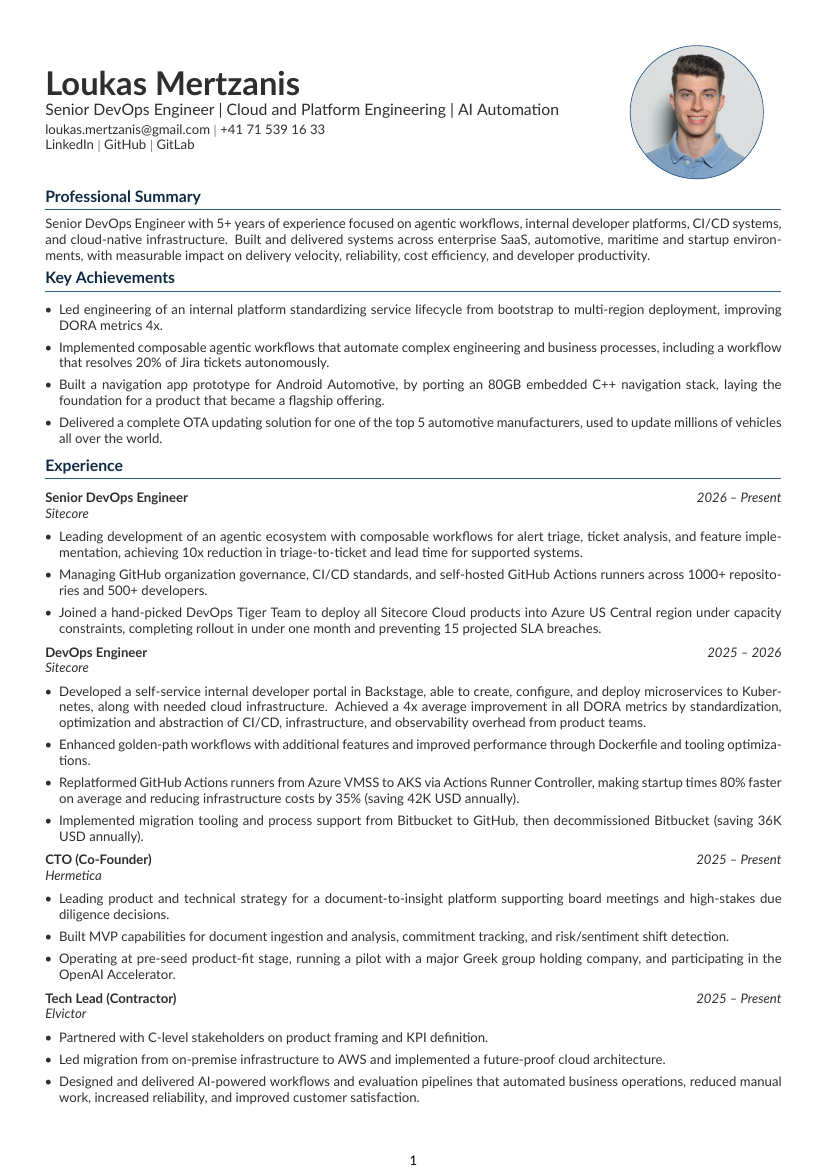
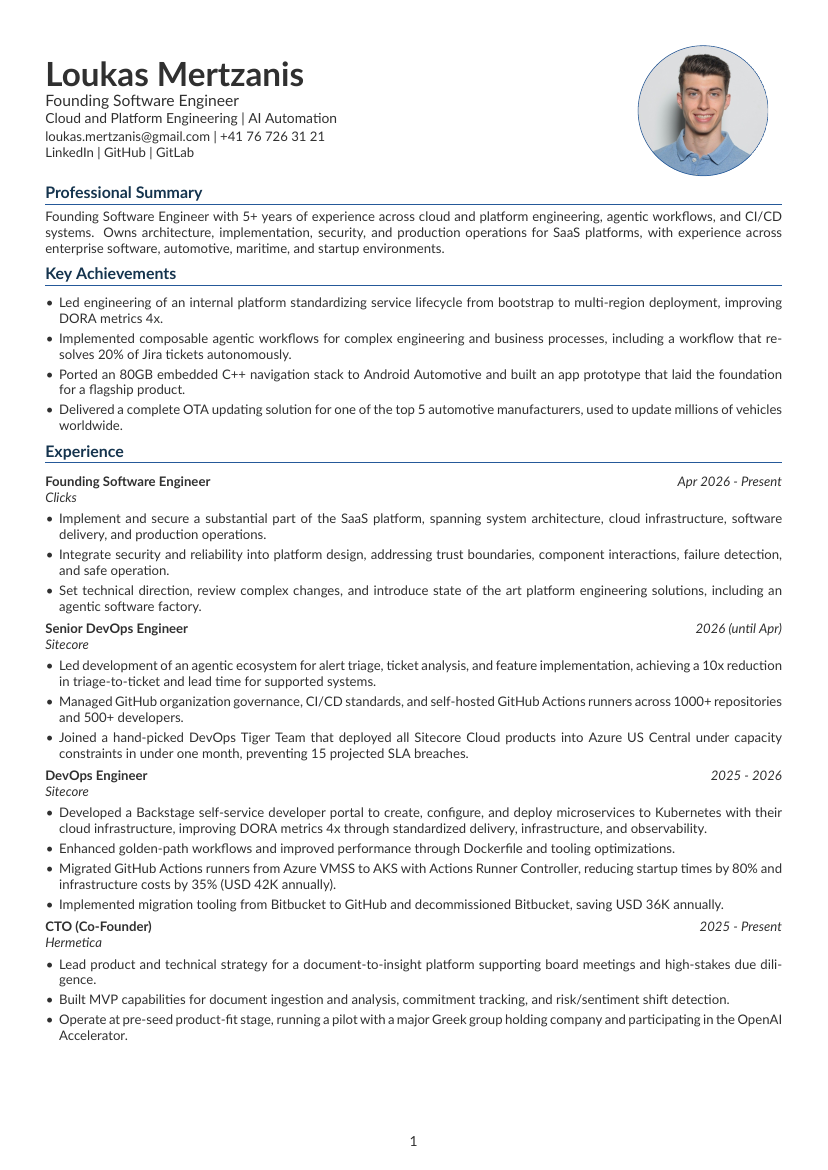
masters | docs: Save current application preparation state

diff --git a/archive/application/document-inventory.md b/archive/application/document-inventory.md
@@ -6,7 +6,7 @@ All canonical supporting-document paths below are inside the Git-ignored private
 | Portal task | Status | Canonical file | Notes |
 | --- | --- | --- | --- |
 | Identity Verification - Passport or National ID card | Present, content confirmation recommended | `../private/loukas-mertzanis-passport.jpeg` | The filename and source context indicate a passport image, but its visual contents were not opened during the scan. |
-| Curriculum Vitae | Present | `../private/loukas-mertzanis-cv.pdf` | Current English CV from June 2026. |
+| Curriculum Vitae | Present | `../private/loukas-mertzanis-cv.pdf` | Updated on 13 September 2026 with Clicks experience; editable LaTeX source is in `../private/cv/`. |
 | Identity Verifications - Photo | Present | `../private/loukas-mertzanis-headshot.jpg` | Recent 800 by 800 neutral-background headshot that is likely suitable as a passport-style photo. |
 | Additional Supporting Documents | No dedicated upload package yet | None | The screenshot marks this as needing attention rather than blocking the application. |
 | Education Proof | Present | `../private/loukas-mertzanis-bsc-degree.pdf` | Official one-page University of Crete degree certificate with a 9.04 grade and digital verification code. |

diff --git a/archive/private/README.md b/archive/private/README.md
@@ -8,12 +8,18 @@ Keep a separate encrypted backup and do not share these files through the reposi
 ## Present locally
 
 - `loukas-mertzanis-cv.pdf`
+- `cv/loukas-mertzanis-cv.tex` and its bundled assets: reconstructed, editable CV source.
+- `cv/original/loukas-mertzanis-cv.pdf`: original CV before the Clicks update.
 - `loukas-mertzanis-headshot.jpg`
 - `loukas-mertzanis-passport.jpeg`
 - `loukas-mertzanis-bsc-degree.pdf`
 - `loukas-mertzanis-english-proficiency.pdf`
 - `recommendations/dimitrios-kounalakis-sitecore-drafts.md`
 - `recommendations/oliver-knapp-clicks-drafts.md`
+
+The CV was updated on 13 September 2026 with the Clicks Founding Software Engineer role starting in April 2026 and Sitecore employment ending in April 2026.
+See [CV build instructions](cv/README.md) to edit and recompile it.
+The source and all CV assets are also ignored by Git and require a separate backup.
 
 ## Suggested filenames for remaining documents
 
